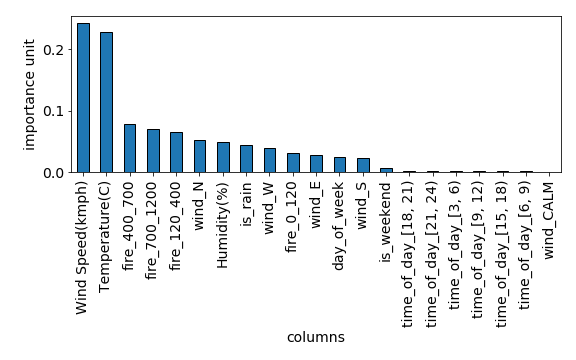
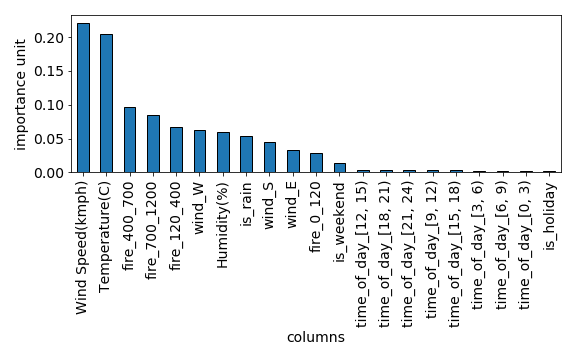
2020-08-30 10:32 auto backup

diff --git a/src/models/train_model.py b/src/models/train_model.py
@@ -484,10 +484,10 @@ def train_city_s1(
             title='rf feature of importance(raw)')
 
         # columns to consider droping are columns with low importance
-        to_drop = feat_imp['index']
-        to_drop = [a for a in to_drop if 'fire' not in a]
-        for s in ['Humidity(%)', 'Temperature(C)', 'Wind Speed(kmph)']:
-            to_drop.remove(s)
+        to_drop = feat_imp['index'].to_list()
+        #to_drop = [a for a in to_drop if 'fire' not in a]
+        #for s in ['Humidity(%)', 'Temperature(C)', 'Wind Speed(kmph)']:
+        #    to_drop.remove(s)
         to_drop.reverse()
         model, x_cols_org = reduce_cols(
             dataset=dataset, x_cols=dataset.x_cols, to_drop=to_drop, model=model, trn_i=0, val_i=1)
@@ -548,10 +548,10 @@ def train_city_s1(
 
         # optimize 1 drop unuse cols
         to_drop = feat_imp['index'].to_list()
-        no_drop = ['Humidity(%)', 'Temperature(C)', 'Wind Speed(kmph)'] + \
-            [a for a in dataset.x_cols_org if 'fire' in a]
-        for s in no_drop:
-            to_drop.remove(s)
+        #no_drop = ['Humidity(%)', 'Temperature(C)', 'Wind Speed(kmph)'] + \
+        #    [a for a in dataset.x_cols_org if 'fire' in a]
+        #for s in no_drop:
+        #    to_drop.remove(s)
         to_drop.reverse()
         model, dataset.x_cols = reduce_cols(
             dataset=dataset, x_cols=dataset.x_cols, to_drop=to_drop, model=model, trn_i=0, val_i=1)
@@ -652,7 +652,6 @@ def train_city_s1(
 
     poll_meta.update( {'x_cols_org': dataset.x_cols_org,
                  'x_cols': dataset.x_cols,
-                 'cat_hour': cat_hour, 
                  'fire_cols': fire_cols,
                  'fire_dict': dataset.fire_dict,
                  'lag_dict': dataset.lag_dict,

diff --git a/src/features/build_features.py b/src/features/build_features.py
@@ -350,6 +350,7 @@ def fill_missing_poll(df, limit:int=6):
     max_date = df.index.max()
     new_index = pd.date_range(start=min_date, end=max_date, freq='h')
     new_poll_df = df.merge(pd.DataFrame(index=new_index), right_index=True, left_index=True, how='right')
+    new_poll_df.index.name = 'datetime'
     
     new_poll_df_f = new_poll_df.fillna(method='ffill', limit=limit).copy()
     new_poll_df_b = new_poll_df.fillna(method='bfill', limit=limit).copy()

diff --git a/src/models/predict_model.py b/src/models/predict_model.py
@@ -51,7 +51,7 @@ def load_model(
 
     """
 
-    data = Dataset(city)
+    dataset = Dataset(city)
     dataset.monitor = dataset.pollutant = pollutant
     # remove . from pollutant name for saving file
     poll_name = pollutant.replace('.', '')
